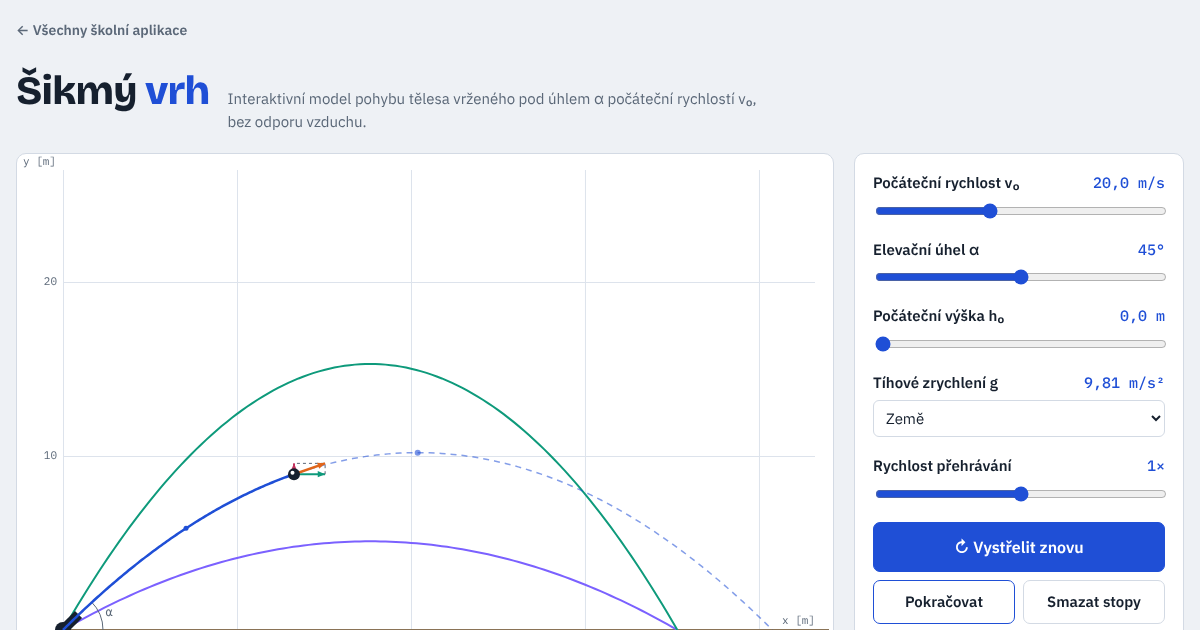
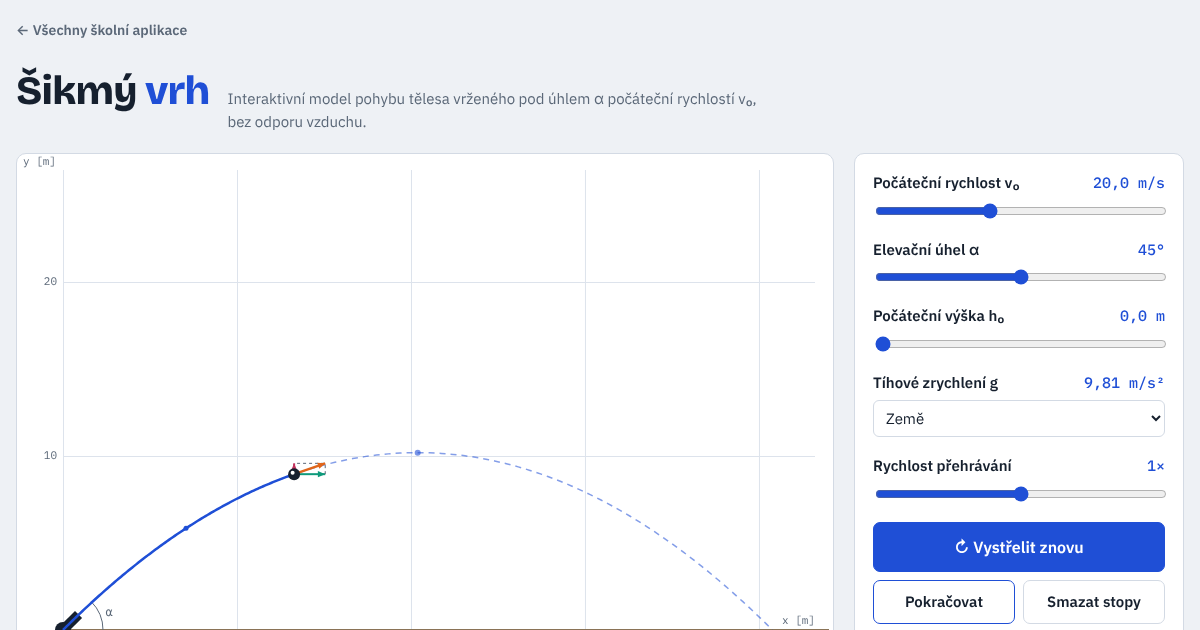
Šikmý vrh: po spuštění bez uložených drah
Odstraněny ukázkové dráhy 30° a 60°, aplikace začíná s prázdným
plátnem. Aktualizován náhled.

Claude-Session: https://claude.ai/code/session_01BEUPNzadzTH9h2qQ7Kx97s

diff --git a/sikmy-vrh/index.html b/sikmy-vrh/index.html
@@ -457,8 +457,8 @@ button.primary:hover { filter: brightness(1.08); }
   matchMedia('(prefers-color-scheme: dark)').addEventListener('change', draw);
   new MutationObserver(draw).observe(document.documentElement, { attributes: true, attributeFilter: ['data-theme'] });
 
-  // výchozí stav: ukázkové dráhy 30° a 60° pro porovnání
-  traces = [{ s: solve({ v0: 20, a: 30, h0: 0, g: 9.81 }), color: TRACE_COLORS[0] }, { s: solve({ v0: 20, a: 60, h0: 0, g: 9.81 }), color: TRACE_COLORS[1] }];
+  // výchozí stav: bez uložených drah
+  traces = [];
   renderTraces(); updateUI();
   if (document.fonts) document.fonts.ready.then(draw);
 })();
